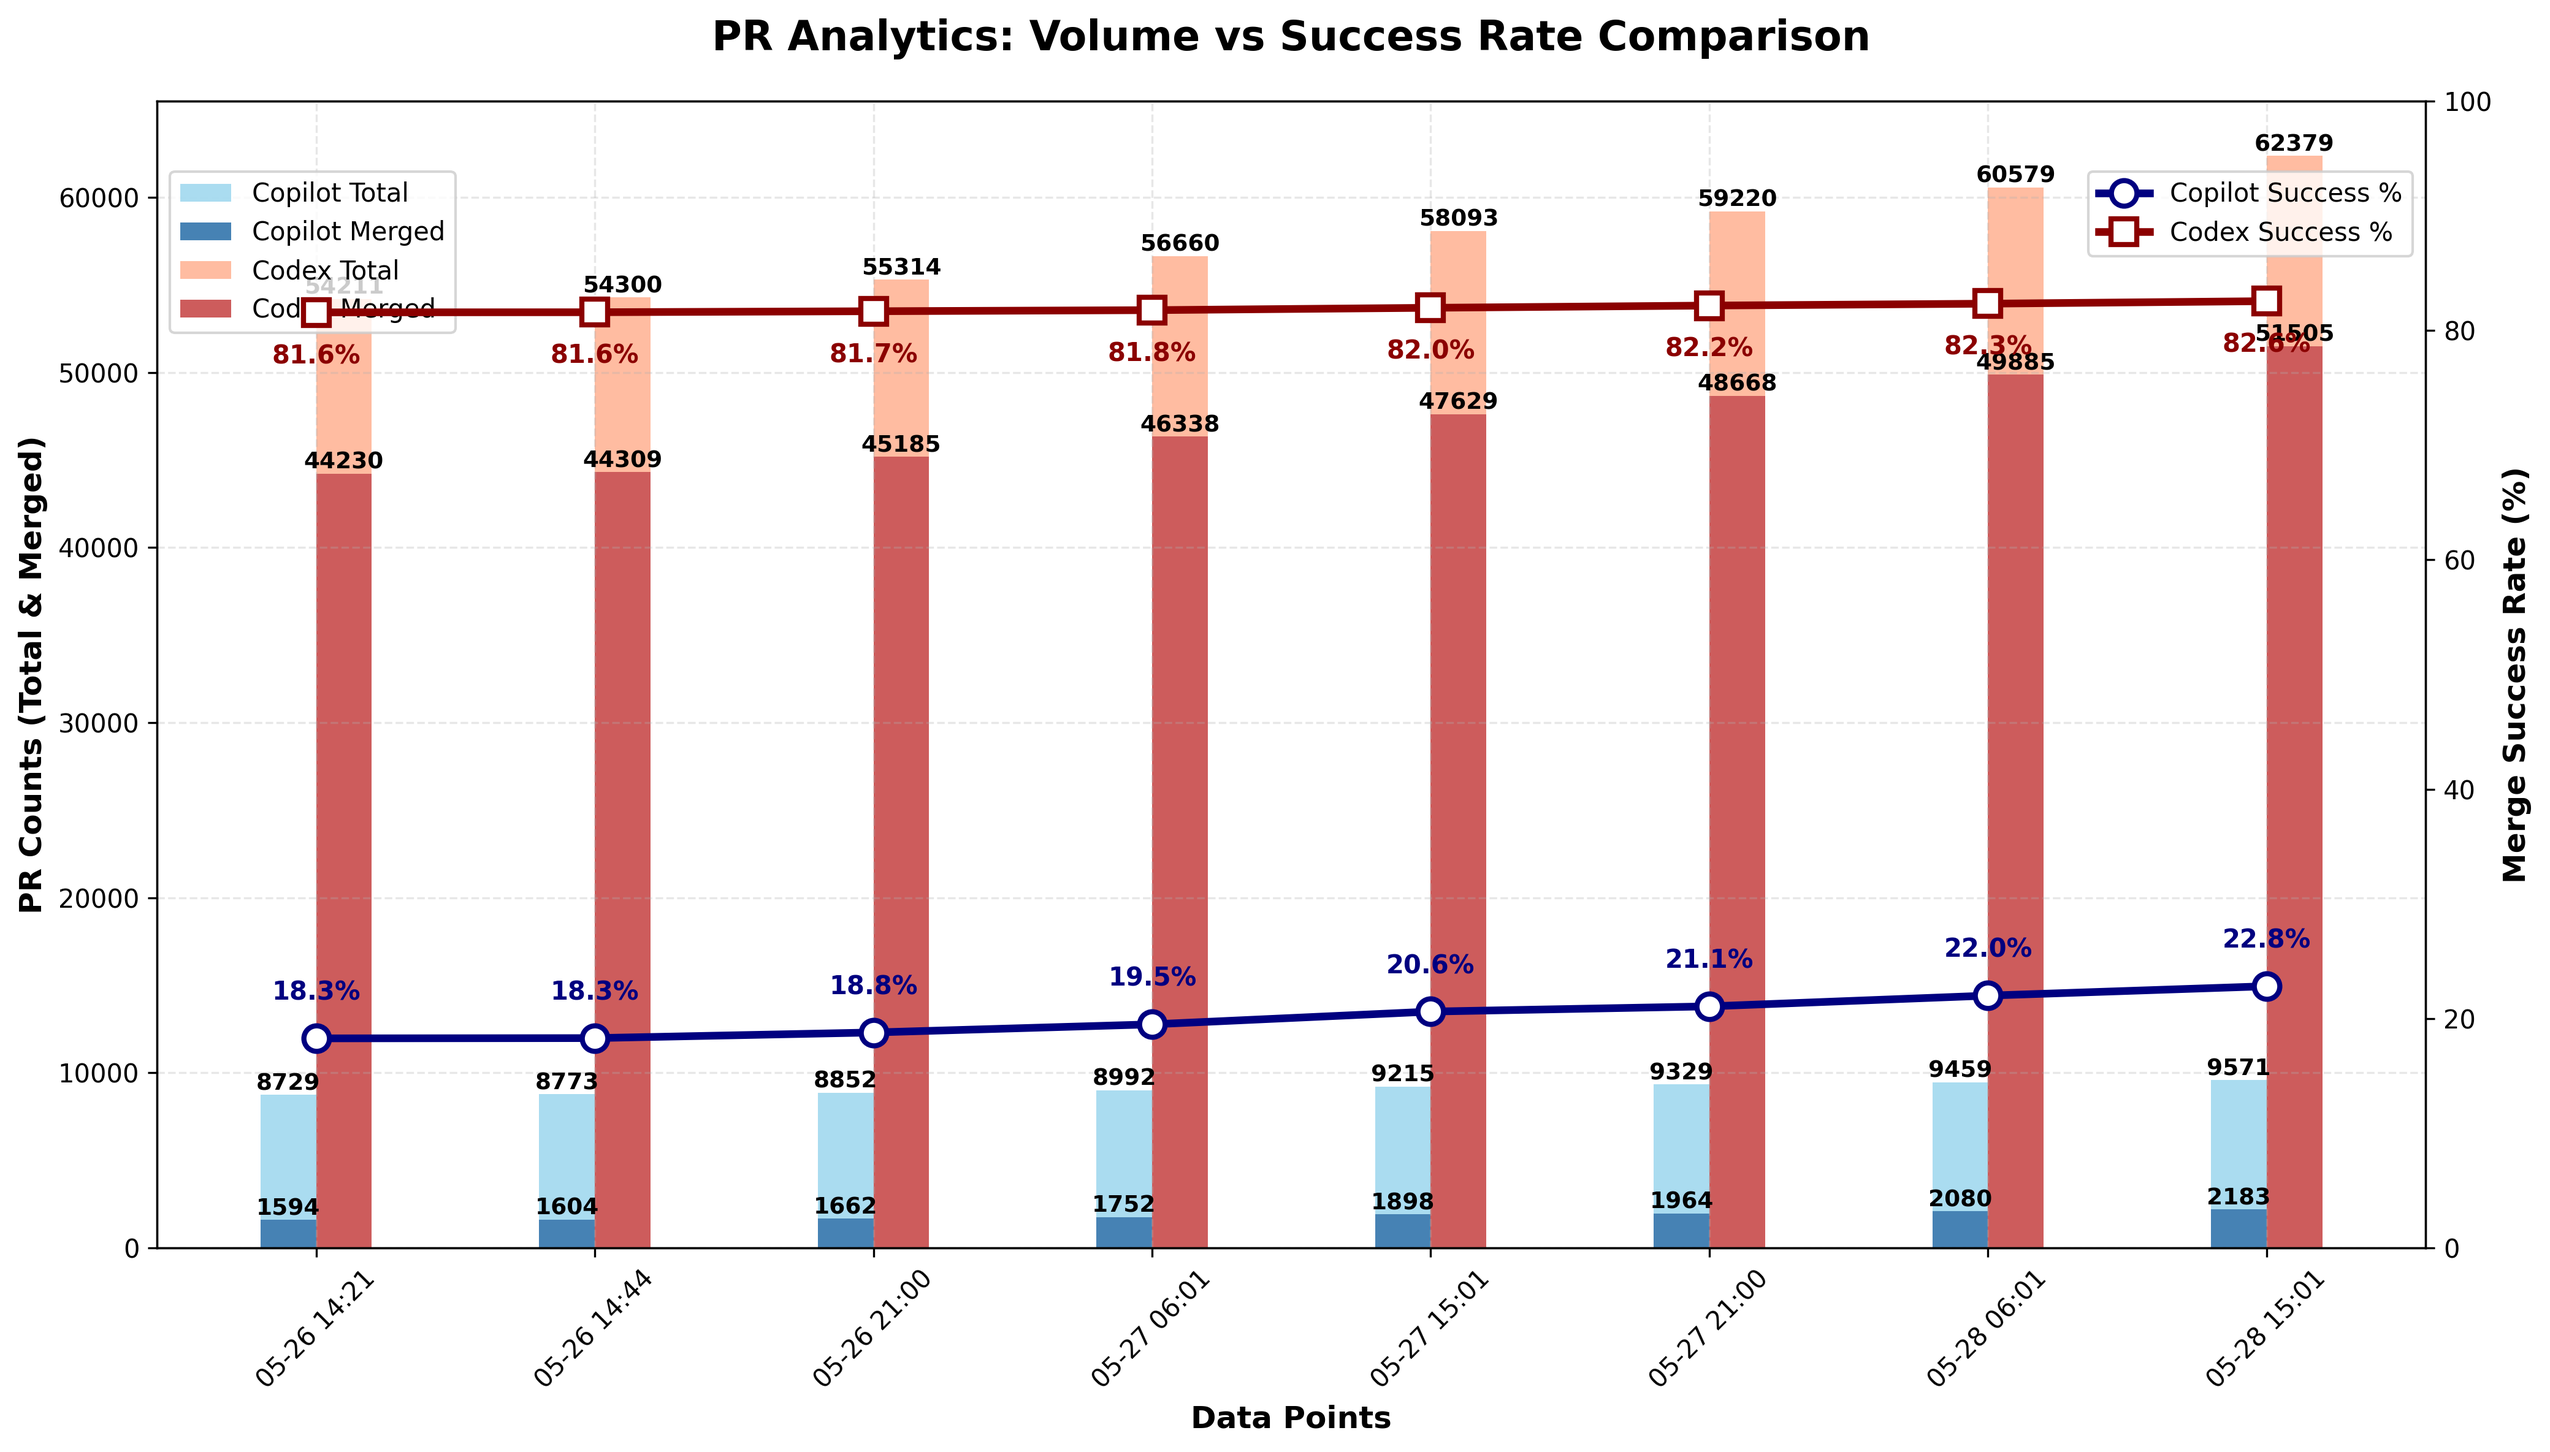
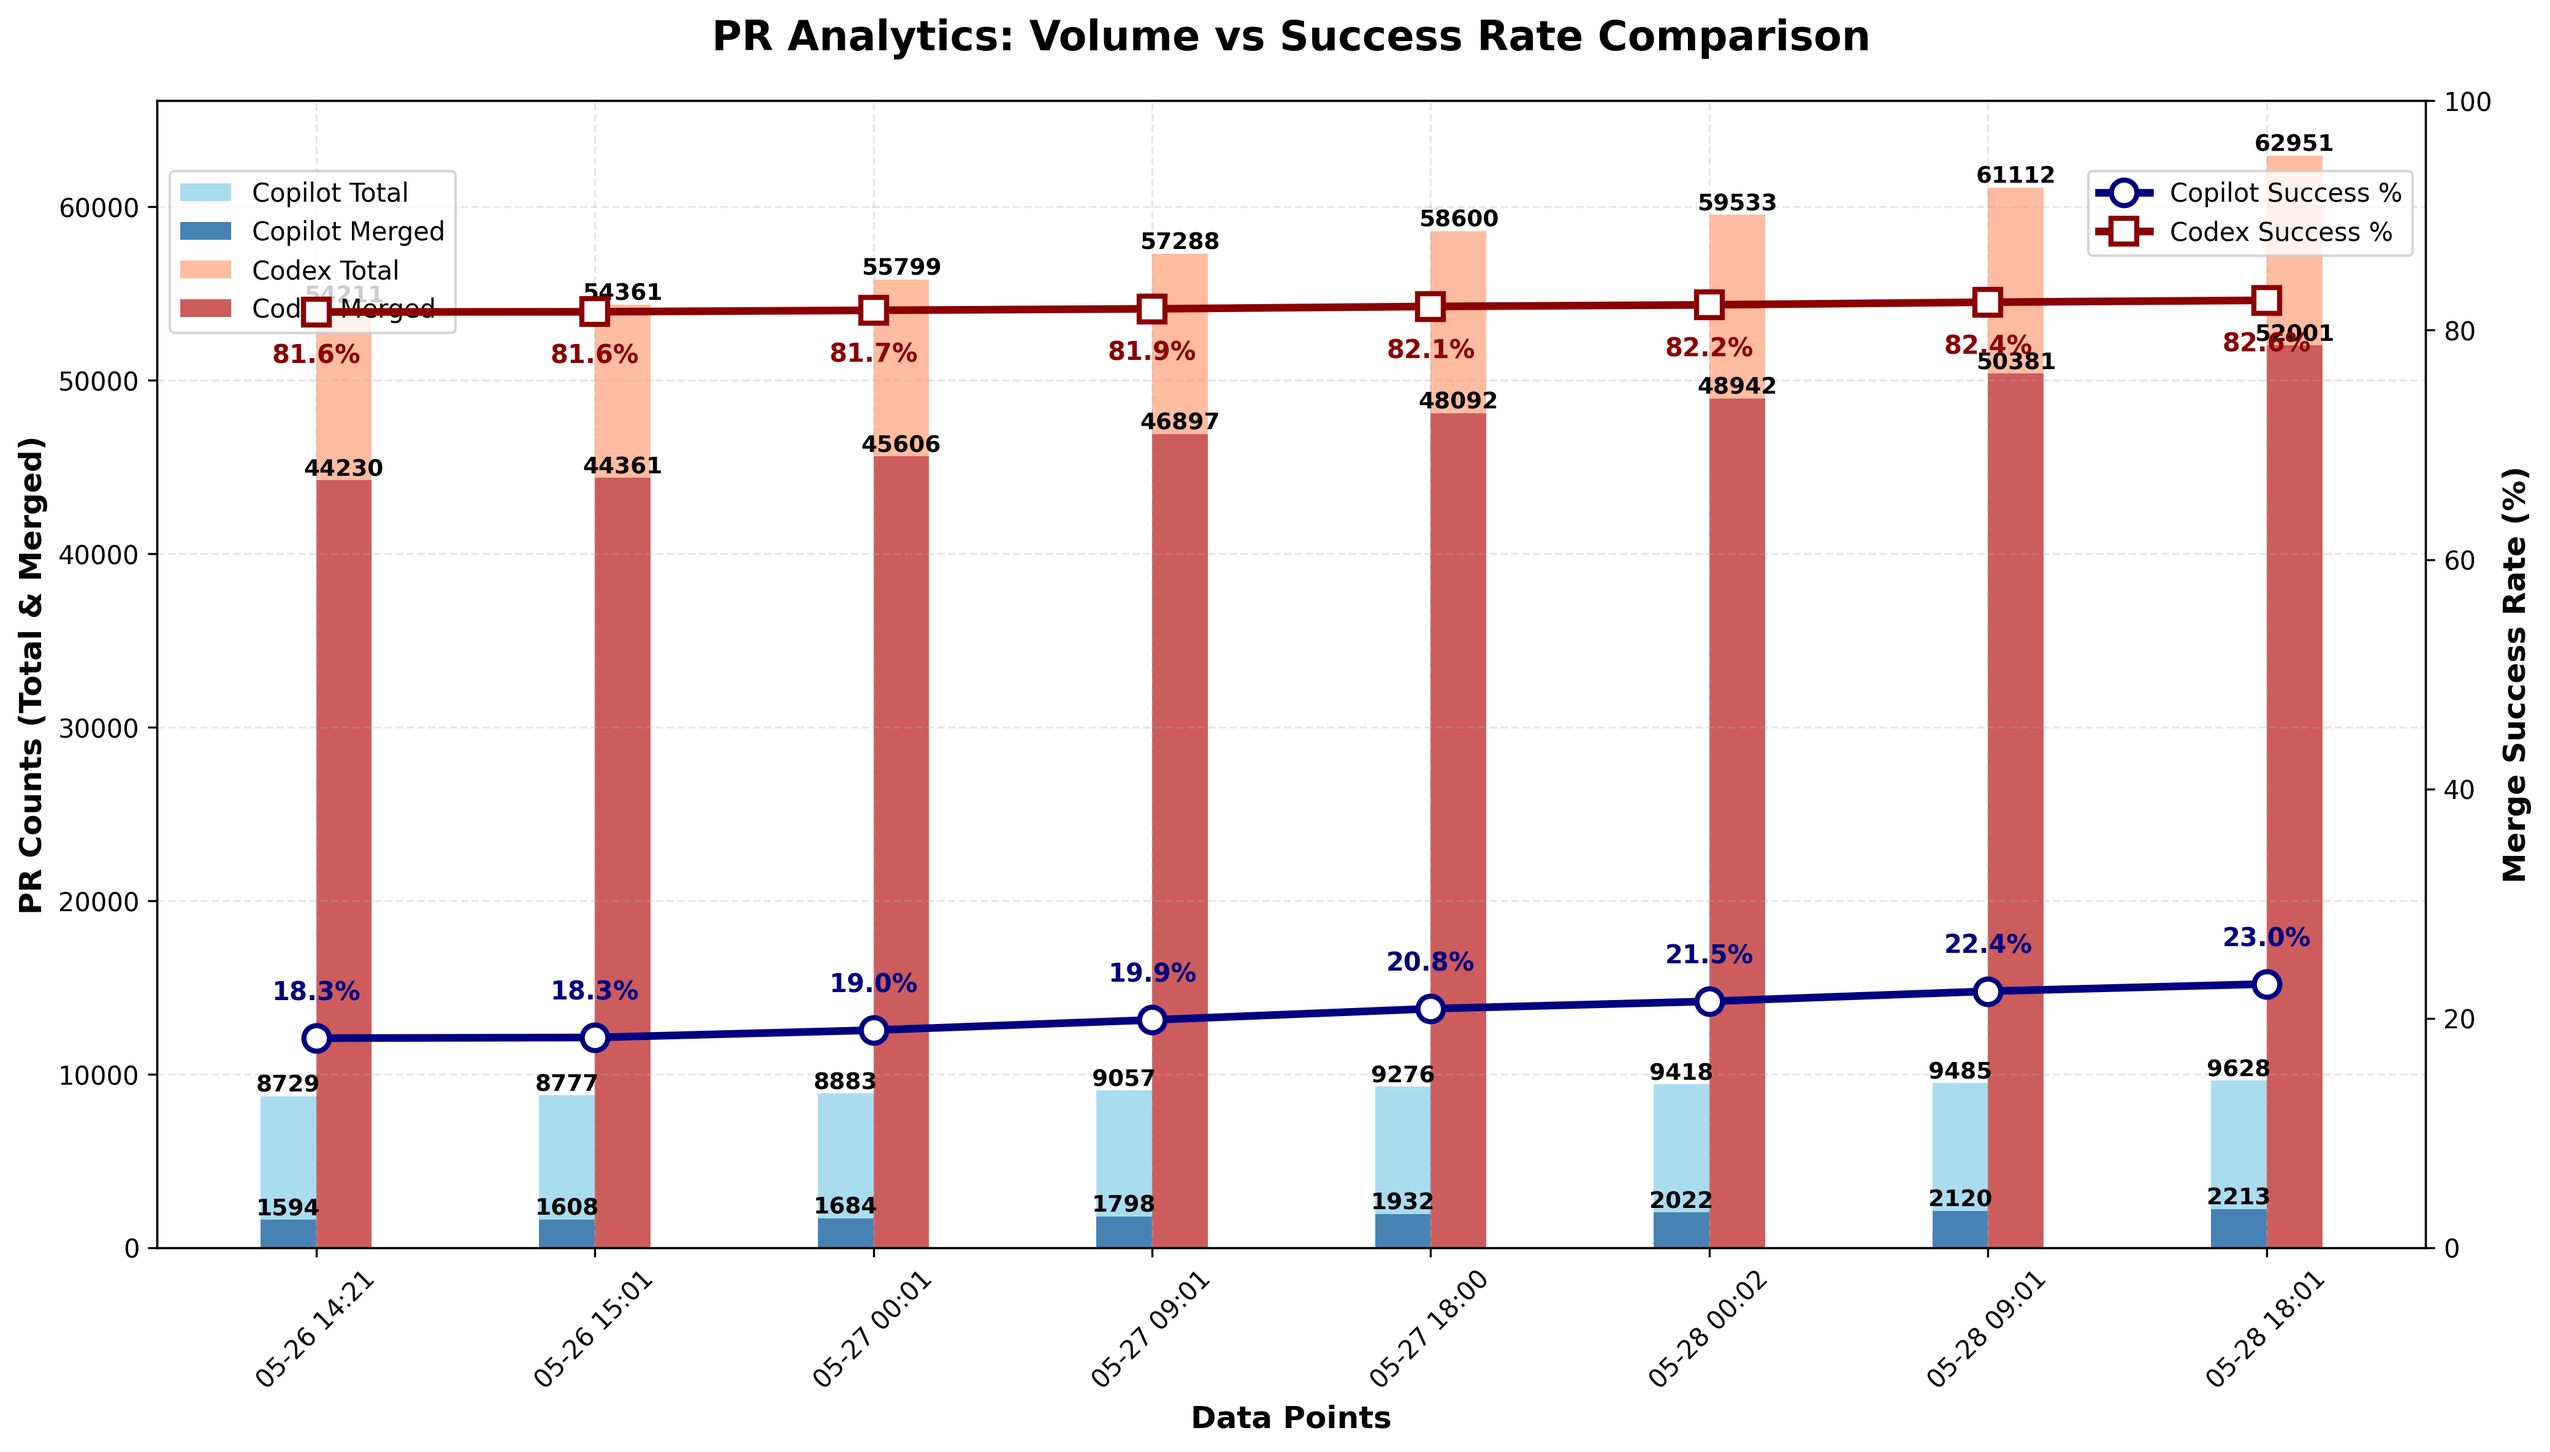
chore: update PR‑approval chart

diff --git a/docs/index.html b/docs/index.html
@@ -44,22 +44,22 @@
                 <tbody>
                     <tr>
                         <td>Copilot</td>
-                        <td>9,571</td>
-                        <td>2,183</td>
-                        <td>22.81%</td>
+                        <td>9,628</td>
+                        <td>2,213</td>
+                        <td>22.99%</td>
                     </tr>
                     <tr>
                         <td>Codex</td>
-                        <td>62,379</td>
-                        <td>51,505</td>
-                        <td>82.57%</td>
+                        <td>62,951</td>
+                        <td>52,001</td>
+                        <td>82.61%</td>
                     </tr>
                 </tbody>
             </table>
         </section>
 
         <footer>
-            <p>Last updated: <span id="last-updated">May 28, 2025 15:01 UTC</span></p>
+            <p>Last updated: <span id="last-updated">May 28, 2025 18:01 UTC</span></p>
             <p><a href="https://github.com/aavetis/ai-pr-watcher">View on GitHub</a></p>
         </footer>
     </div>

diff --git a/README.md b/README.md
@@ -19,5 +19,5 @@ Explore the GitHub search queries used:
 
 | Project | Total PRs | Merged PRs | Merge Rate |
 | ------- | --------- | ---------- | ---------- |
-| Copilot | 9,571 | 2,183 | 22.81% |
-| Codex   | 62,379 | 51,505 | 82.57% |
+| Copilot | 9,628 | 2,213 | 22.99% |
+| Codex   | 62,951 | 52,001 | 82.61% |
